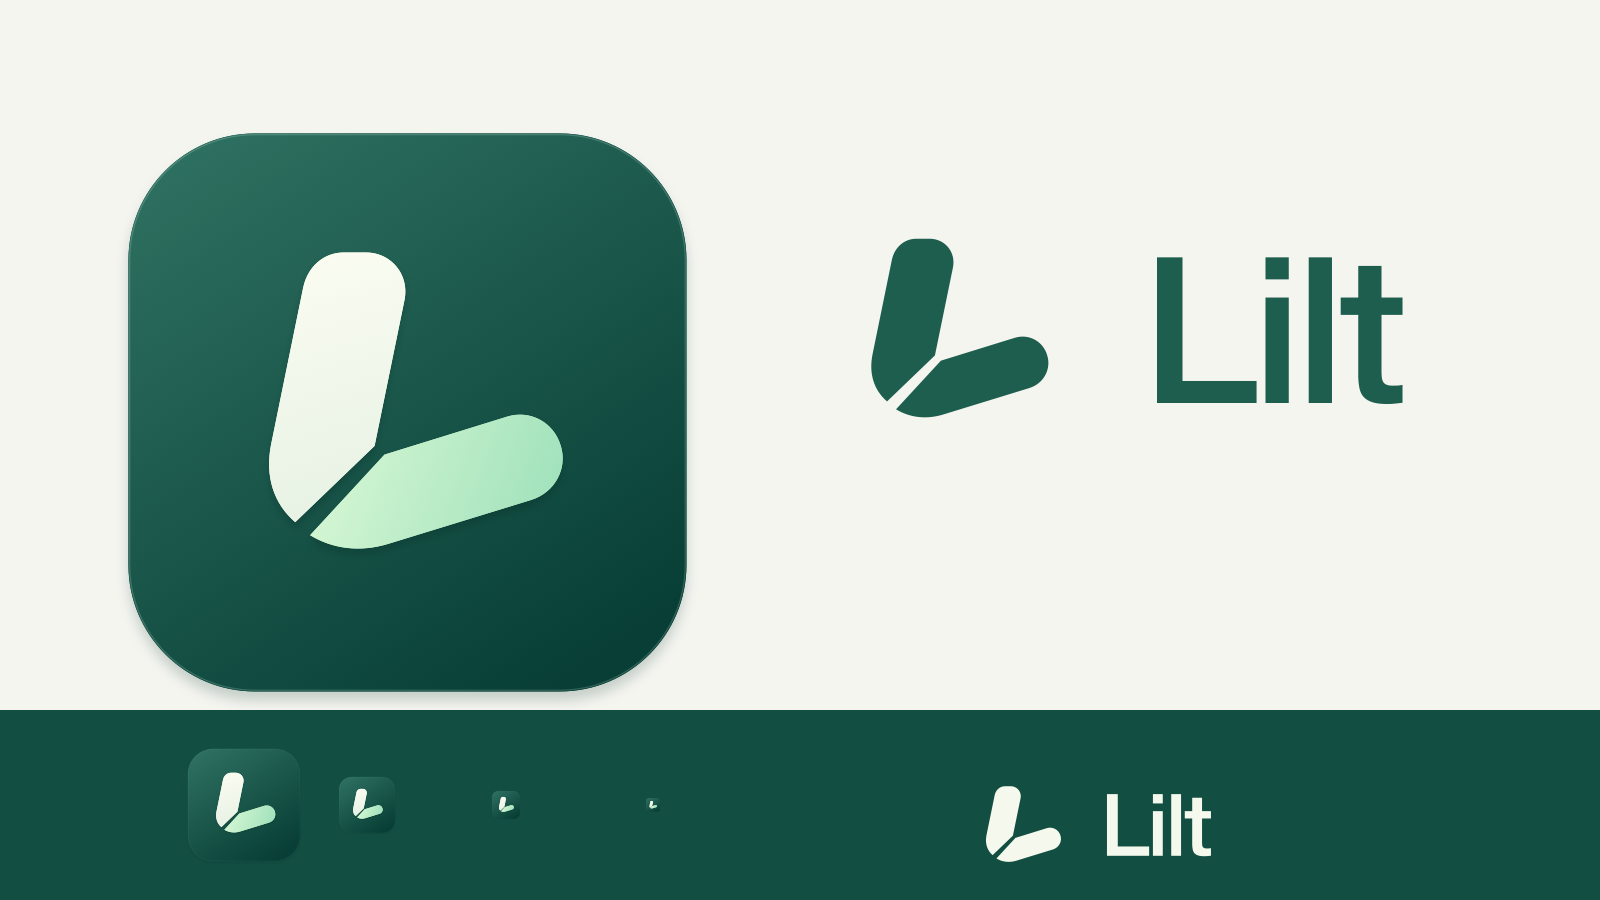
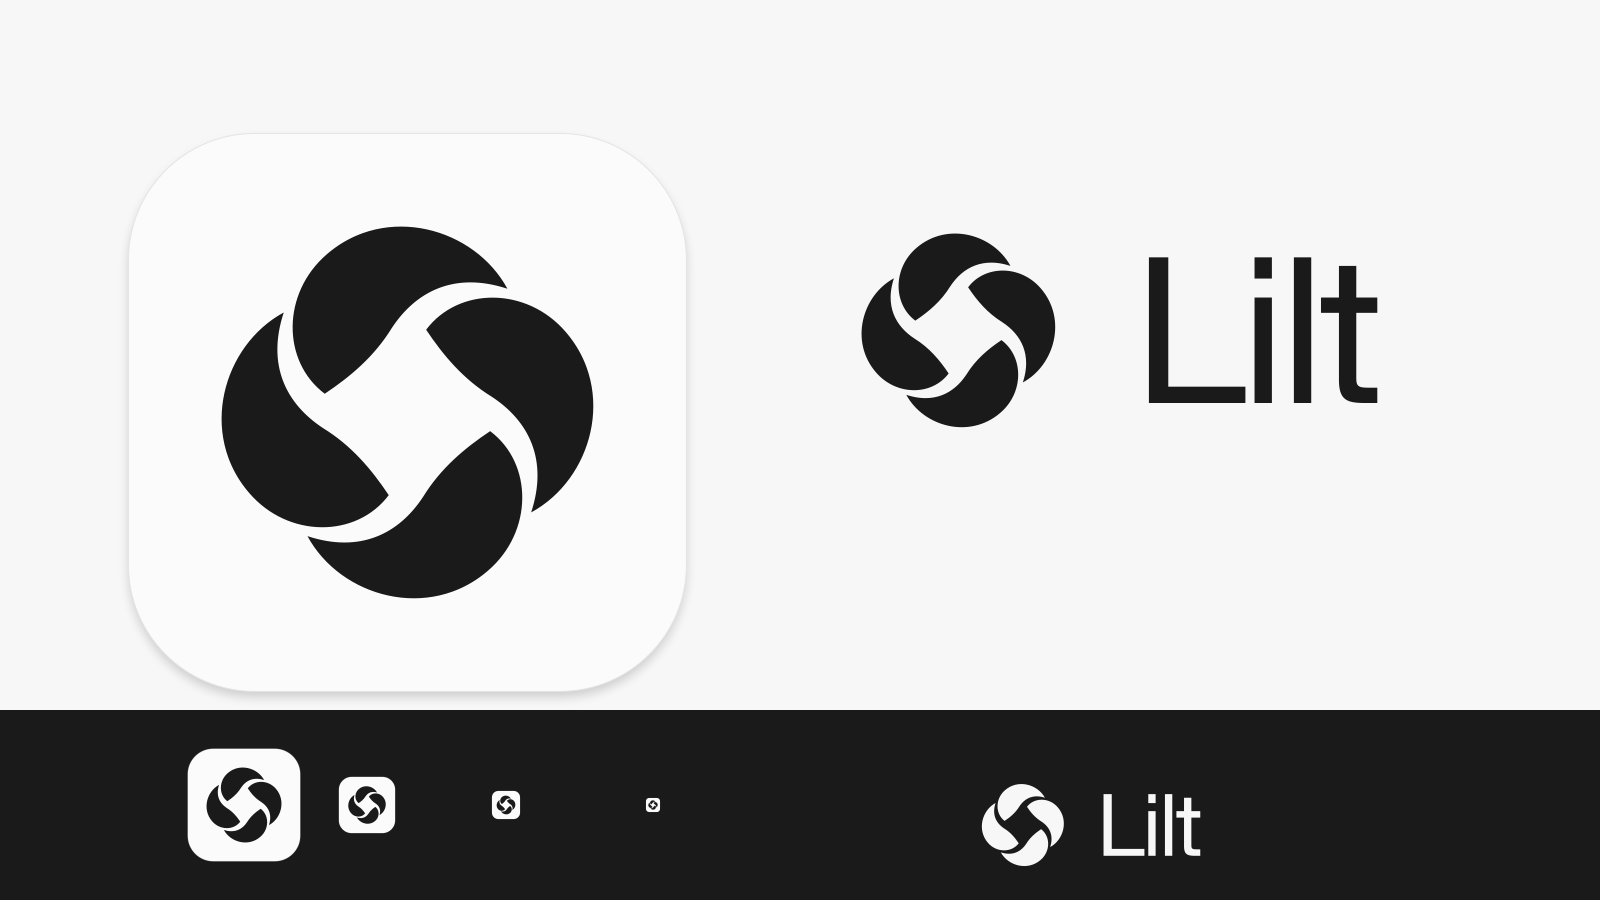
design: replace lettermark with monochrome orbit identity

diff --git a/scripts/make-icon.swift b/scripts/make-icon.swift
@@ -12,17 +12,13 @@ enum Segment {
     case move(CGFloat, CGFloat), line(CGFloat, CGFloat)
     case curve(CGFloat, CGFloat, CGFloat, CGFloat, CGFloat, CGFloat), close
 }
-let stem: [Segment] = [
-    .move(409, 254), .curve(377, 254, 351, 277, 344, 310),
-    .line(292, 564), .curve(282, 615, 296, 659, 331, 689),
-    .line(459, 566), .line(507, 332),
-    .curve(516, 290, 486, 254, 445, 254), .close
-]
-let foot: [Segment] = [
-    .move(355, 710), .curve(391, 732, 435, 738, 481, 724),
-    .line(712, 653), .curve(750, 641, 771, 602, 759, 565),
-    .curve(748, 528, 710, 507, 672, 519),
-    .line(475, 580), .close
+// A broad curved lobe repeated four times; the openings leave a quiet central aperture.
+let lobe: [Segment] = [
+    .move(-115, -5),
+    .curve(-175, -50, -175, -145, -112, -199),
+    .curve(-30, -270, 93, -236, 139, -151),
+    .curve(66, -175, 12, -148, -22, -96),
+    .curve(-46, -57, -79, -29, -115, -5), .close
 ]
 func path(_ segments: [Segment]) -> CGPath {
     let p = CGMutablePath()
@@ -40,30 +36,25 @@ func color(_ hex: UInt32) -> CGColor {
     CGColor(red: CGFloat((hex >> 16) & 255)/255, green: CGFloat((hex >> 8) & 255)/255, blue: CGFloat(hex & 255)/255, alpha: 1)
 }
 func fill(_ p: CGPath, _ c: CGColor, _ ctx: CGContext) { ctx.addPath(p); ctx.setFillColor(c); ctx.fillPath() }
-func gradient(_ p: CGPath, colors: [CGColor], from: CGPoint, to: CGPoint, _ ctx: CGContext) {
-    ctx.saveGState(); ctx.addPath(p); ctx.clip()
-    let g = CGGradient(colorsSpace: CGColorSpace(name: CGColorSpace.sRGB), colors: colors as CFArray, locations: nil)!
-    ctx.drawLinearGradient(g, start: from, end: to, options: [.drawsBeforeStartLocation, .drawsAfterEndLocation])
-    ctx.restoreGState()
+func lobes() -> [CGPath] {
+    (0..<4).map { index in
+        var transform = CGAffineTransform(translationX:512,y:512)
+            .scaledBy(x:1.16,y:1.16).rotated(by:CGFloat(index) * .pi / 2)
+            .translatedBy(x:0,y:-21)
+        return path(lobe).copy(using:&transform)!
+    }
 }
-func mark(_ ctx: CGContext, primary: CGColor, secondary: CGColor) {
-    fill(path(stem), primary, ctx); fill(path(foot), secondary, ctx)
+func mark(_ ctx: CGContext, primary: CGColor) {
+    for p in lobes() { fill(p,primary,ctx) }
 }
-func icon(_ ctx: CGContext) {
-    // Core Graphics shadows use device space; scale them explicitly for 16–1024 px exports.
+func icon(_ ctx: CGContext, dark: Bool = false) {
     let shadowScale = abs(ctx.ctm.a)
-    let tile = CGPath(roundedRect: CGRect(x: 62, y: 62, width: 900, height: 900), cornerWidth: 204, cornerHeight: 204, transform: nil)
+    let tile = CGPath(roundedRect: CGRect(x:62,y:62,width:900,height:900),cornerWidth:204,cornerHeight:204,transform:nil)
     ctx.saveGState()
-    ctx.setShadow(offset: CGSize(width: 0, height: -14 * shadowScale), blur: 20 * shadowScale, color: color(0x09281F).copy(alpha: 0.20))
-    fill(tile, color(0x123E33), ctx); ctx.restoreGState()
-    gradient(tile, colors: [color(0x245D4D), color(0x0B3028)], from: CGPoint(x:180,y:80), to: CGPoint(x:750,y:950), ctx)
-    ctx.saveGState(); ctx.addPath(tile); ctx.clip()
-    ctx.addPath(CGPath(roundedRect: CGRect(x:64,y:64,width:896,height:896), cornerWidth:202, cornerHeight:202, transform:nil))
-    ctx.setStrokeColor(color(0xE3FFEE).copy(alpha:0.19)!); ctx.setLineWidth(2); ctx.strokePath(); ctx.restoreGState()
-    ctx.saveGState(); ctx.setShadow(offset: CGSize(width:0,height:-9 * shadowScale), blur:14 * shadowScale, color: color(0x001B13).copy(alpha:0.24))
-    mark(ctx, primary: color(0xF2F8E9), secondary: color(0xB6ECC0)); ctx.restoreGState()
-    gradient(path(stem), colors: [color(0xFAFCEE),color(0xDFEEDC)], from: CGPoint(x:350,y:250), to: CGPoint(x:480,y:700), ctx)
-    gradient(path(foot), colors: [color(0xCDF6C9),color(0x8DDCAC)], from: CGPoint(x:380,y:580), to: CGPoint(x:760,y:720), ctx)
+    ctx.setShadow(offset:CGSize(width:0,height:-10 * shadowScale),blur:16 * shadowScale,color:color(0x000000).copy(alpha:0.16))
+    fill(tile,color(dark ? 0x181818 : 0xFAFAFA),ctx); ctx.restoreGState()
+    ctx.addPath(tile); ctx.setStrokeColor(color(dark ? 0x383838 : 0xDEDEDE)); ctx.setLineWidth(1.5); ctx.strokePath()
+    mark(ctx,primary:color(dark ? 0xF5F5F5 : 0x141414))
 }
 func png(width: Int, height: Int, logicalWidth: CGFloat, logicalHeight: CGFloat, to url: URL, draw: (CGContext)->Void) throws {
     let ctx = CGContext(data:nil,width:width,height:height,bitsPerComponent:8,bytesPerRow:0,space:CGColorSpace(name:CGColorSpace.sRGB)!,bitmapInfo:CGImageAlphaInfo.premultipliedLast.rawValue)!
@@ -76,16 +67,16 @@ for size in [16,32,128,256,512] {
     for scale in [1,2] {
         let pixels = size * scale
         try png(width:pixels,height:pixels,logicalWidth:1024,logicalHeight:1024,
-                to:dir.appendingPathComponent("icon_\(size)x\(size)\(scale == 2 ? "@2x" : "").png"),draw:icon)
+                to:dir.appendingPathComponent("icon_\(size)x\(size)\(scale == 2 ? "@2x" : "").png"),draw:{ icon($0) })
     }
 }
 
 // Export a black template for the menu bar. It uses the exact same silhouette as the icon.
 for scale in [1,2] {
-    try png(width:18*scale,height:18*scale,logicalWidth:560,logicalHeight:560,
+    try png(width:18*scale,height:18*scale,logicalWidth:660,logicalHeight:660,
             to:root.appendingPathComponent("LiltMenu\(scale == 2 ? "@2x" : "").png")) { ctx in
-        ctx.translateBy(x:-245,y:-220)
-        mark(ctx,primary:color(0x000000),secondary:color(0x000000))
+        ctx.translateBy(x:-182,y:-182)
+        mark(ctx,primary:color(0x000000))
     }
 }
 
@@ -112,44 +103,45 @@ if brand {
         let s = "<svg xmlns=\"http://www.w3.org/2000/svg\" viewBox=\"\(viewBox)\" role=\"img\" aria-label=\"Lilt\"><title>Lilt</title>\(content)</svg>\n"
         try s.write(to:out.appendingPathComponent(name),atomically:true,encoding:.utf8)
     }
-    let shapes = "<path d=\"\(svgPath(path(stem)))\"/><path d=\"\(svgPath(path(foot)))\"/>"
-    try svg("<g fill=\"#194D3E\">\(shapes)</g>",viewBox:"224 200 600 600",name:"lilt-mark.svg")
-    try svg("<g fill=\"#F2F8E9\">\(shapes)</g>",viewBox:"224 200 600 600",name:"lilt-mark-light.svg")
-    try png(width:1024,height:1024,logicalWidth:1024,logicalHeight:1024,to:out.appendingPathComponent("lilt-icon.png"),draw:icon)
-    try png(width:1024,height:1024,logicalWidth:600,logicalHeight:600,to:out.appendingPathComponent("lilt-mark.png")) { ctx in
-        ctx.translateBy(x:-224,y:-200); mark(ctx,primary:color(0x194D3E),secondary:color(0x194D3E))
+    let shapes = lobes().map { "<path d=\"\(svgPath($0))\"/>" }.joined()
+    try svg("<g fill=\"#141414\">\(shapes)</g>",viewBox:"162 162 700 700",name:"lilt-mark.svg")
+    try svg("<g fill=\"#F5F5F5\">\(shapes)</g>",viewBox:"162 162 700 700",name:"lilt-mark-light.svg")
+    try png(width:1024,height:1024,logicalWidth:1024,logicalHeight:1024,to:out.appendingPathComponent("lilt-icon.png"),draw:{ icon($0) })
+    try png(width:1024,height:1024,logicalWidth:1024,logicalHeight:1024,to:out.appendingPathComponent("lilt-icon-dark.png")) { icon($0,dark:true) }
+    try png(width:1024,height:1024,logicalWidth:700,logicalHeight:700,to:out.appendingPathComponent("lilt-mark.png")) { ctx in
+        ctx.translateBy(x:-162,y:-162); mark(ctx,primary:color(0x141414))
     }
     // Convert the wordmark into outlines so SVG consumers need no installed font.
-    let font = CTFontCreateWithName("HelveticaNeue-Medium" as CFString,240,nil)
+    let font = CTFontCreateWithName("HelveticaNeue" as CFString,240,nil)
     let letters = Array("Lilt".utf16)
     var glyphs = [CGGlyph](repeating:0,count:letters.count)
     CTFontGetGlyphsForCharacters(font,letters,&glyphs,letters.count)
     var advances = [CGSize](repeating:.zero,count:letters.count)
     CTFontGetAdvancesForGlyphs(font,.horizontal,glyphs,&advances,letters.count)
-    let word = CGMutablePath(); var x:CGFloat = 390
+    let word = CGMutablePath(); var x:CGFloat = 380
     for (index,glyph) in glyphs.enumerated() {
         if let p = CTFontCreatePathForGlyph(font,glyph,nil) {
             word.addPath(p,transform:CGAffineTransform(a:1,b:0,c:0,d:-1,tx:x,ty:280))
         }
         x += advances[index].width - 7
     }
-    let wordPaths = "<g transform=\"translate(-55 -25) scale(.44)\">\(shapes)</g><path d=\"\(svgPath(word))\"/>"
-    try svg("<g fill=\"#194D3E\">\(wordPaths)</g>",viewBox:"0 0 770 390",name:"lilt-logo.svg")
-    try svg("<g fill=\"#F2F8E9\">\(wordPaths)</g>",viewBox:"0 0 770 390",name:"lilt-logo-light.svg")
+    let wordPaths = "<g transform=\"translate(-20 0) scale(.38)\">\(shapes)</g><path d=\"\(svgPath(word))\"/>"
+    try svg("<g fill=\"#141414\">\(wordPaths)</g>",viewBox:"0 0 770 390",name:"lilt-logo.svg")
+    try svg("<g fill=\"#F5F5F5\">\(wordPaths)</g>",viewBox:"0 0 770 390",name:"lilt-logo-light.svg")
     func drawLogo(_ ctx:CGContext, ink:CGColor) {
-        ctx.saveGState(); ctx.translateBy(x:-55,y:-25); ctx.scaleBy(x:0.44,y:0.44)
-        mark(ctx,primary:ink,secondary:ink); ctx.restoreGState(); fill(word,ink,ctx)
+        ctx.saveGState(); ctx.translateBy(x:-20,y:0); ctx.scaleBy(x:0.38,y:0.38)
+        mark(ctx,primary:ink); ctx.restoreGState(); fill(word,ink,ctx)
     }
-    try png(width:1540,height:780,logicalWidth:770,logicalHeight:390,to:out.appendingPathComponent("lilt-logo.png")) { drawLogo($0,ink:color(0x194D3E)) }
+    try png(width:1540,height:780,logicalWidth:770,logicalHeight:390,to:out.appendingPathComponent("lilt-logo.png")) { drawLogo($0,ink:color(0x141414)) }
     try png(width:1600,height:900,logicalWidth:1600,logicalHeight:900,to:out.appendingPathComponent("brand-preview.png")) { ctx in
-        ctx.setFillColor(color(0xF2F3EC)); ctx.fill(CGRect(x:0,y:0,width:1600,height:900))
+        ctx.setFillColor(color(0xF5F5F5)); ctx.fill(CGRect(x:0,y:0,width:1600,height:900))
         ctx.saveGState(); ctx.translateBy(x:90,y:95); ctx.scaleBy(x:0.62,y:0.62); icon(ctx); ctx.restoreGState()
-        ctx.saveGState(); ctx.translateBy(x:810,y:165); ctx.scaleBy(x:0.85,y:0.85); drawLogo(ctx,ink:color(0x194D3E)); ctx.restoreGState()
-        ctx.setFillColor(color(0x123E33)); ctx.fill(CGRect(x:0,y:710,width:1600,height:190))
+        ctx.saveGState(); ctx.translateBy(x:810,y:165); ctx.scaleBy(x:0.85,y:0.85); drawLogo(ctx,ink:color(0x141414)); ctx.restoreGState()
+        ctx.setFillColor(color(0x141414)); ctx.fill(CGRect(x:0,y:710,width:1600,height:190))
         for (index,size) in [128.0,64.0,32.0,16.0].enumerated() {
             ctx.saveGState(); ctx.translateBy(x:180 + CGFloat(index)*155,y:805-size/2); ctx.scaleBy(x:size/1024,y:size/1024); icon(ctx); ctx.restoreGState()
         }
-        ctx.saveGState(); ctx.translateBy(x:960,y:755); ctx.scaleBy(x:0.36,y:0.36); drawLogo(ctx,ink:color(0xF2F8E9)); ctx.restoreGState()
+        ctx.saveGState(); ctx.translateBy(x:960,y:755); ctx.scaleBy(x:0.36,y:0.36); drawLogo(ctx,ink:color(0xF5F5F5)); ctx.restoreGState()
     }
     print("Brand assets: \(out.path)")
 }

diff --git a/assets/brand/README.md b/assets/brand/README.md
@@ -1,17 +1,18 @@
 # Lilt 品牌资产
 
-标志由两段圆润、前倾的笔画组成一个「L」。斜切留白表现接力交接，上扬的底部表现继续前进。应用图标用深松绿底色、奶白主笔画和薄荷绿接力笔画；独立 Logo 使用单色，适合浅色与深色背景。
+四枚宽阔的弧形围绕中心留白旋转，形成紧凑的「回旋」标志，表达连续、轮换与接力。采用黑、白、灰；标志本身是纯色平面图形。App Icon 默认白底黑标，另提供黑底白标版本。
 
 ## 文件
 
-- `lilt-icon.png`：1024 × 1024 App Icon，圆角外透明。
-- `lilt-mark.svg` / `lilt-mark-light.svg`：独立标志，深绿 / 奶白，透明背景。
-- `lilt-mark.png`：1024 × 1024 透明标志。
+- `lilt-icon.png`：1024 × 1024 默认 App Icon，白底黑标，圆角外透明。
+- `lilt-icon-dark.png`：1024 × 1024 黑底白标备选图标。
+- `lilt-mark.svg` / `lilt-mark-light.svg`：独立标志，黑 / 白，透明背景。
+- `lilt-mark.png`：1024 × 1024 透明黑色标志。
 - `lilt-logo.svg` / `lilt-logo-light.svg`：标志与 Lilt 字标，字形已转为路径，不依赖字体。
 - `lilt-logo.png`：1540 × 780 透明 Logo。
 - `brand-preview.png`：1600 × 900 展示图，包含浅底、深底及 128 / 64 / 32 / 16 px 图标预览。
 
-主色：松绿 `#194D3E`、奶白 `#F2F8E9`、薄荷绿 `#B6ECC0`。App Icon 的底色与笔画使用轻微渐变；单色 Logo 保留相同轮廓。保持原比例，四周至少留出标志高度的 1/8 空白。
+颜色：墨黑 `#141414`、浅白 `#FAFAFA`、反白 `#F5F5F5`、边框灰 `#DEDEDE`。保持原比例，四周至少留出标志宽度的 1/8 空白。不要单独旋转其中一瓣、添加彩色渐变或改变瓣间留白。
 
 ## 重新生成
 
@@ -22,6 +23,6 @@ swift scripts/make-icon.swift build --brand-assets
 ./scripts/build-app.sh
 ```
 
-`make-icon.swift` 是唯一绘图源：同一组贝塞尔路径生成 SVG、PNG、10 个标准 macOS iconset 文件，以及 18 pt 的菜单栏模板图。App 构建会自动生成 `build/Lilt.app/Contents/Resources/Lilt.icns`，不依赖绘图软件或第三方包。菜单栏关闭自动接力时显示 L 标志，开启后保留原有的接力箭头状态提示。
+`make-icon.swift` 是正式资产的唯一绘图源：同一组贝塞尔路径生成 SVG、PNG、10 个标准 macOS iconset 文件，以及 18 pt 的菜单栏模板图。App 构建自动生成 `build/Lilt.app/Contents/Resources/Lilt.icns`，不依赖绘图软件或第三方包。菜单栏关闭自动接力时显示回旋标志，开启后保留原有的接力箭头状态提示。
 
-此版本使用原生矢量绘制，没有使用 AI 位图生成。字标以 Helvetica Neue Medium 转曲；重新生成字标需要 macOS 随附的该字体。
+形态探索使用内置图像生成工具，正式交付重新构建为四重旋转对称的原生矢量路径。字标以 macOS 随附的 Helvetica Neue 转曲。参考与探索提示词见 [design-notes.md](design-notes.md)。

diff --git a/assets/brand/design-notes.md b/assets/brand/design-notes.md
@@ -1,0 +1,21 @@
+# 设计方向与来源
+
+用户要求：替换上一版绿色 L 字母图标；参考 OpenAI、Claude、Grok 的图标气质，以黑、白、灰为主。
+
+选择四瓣回旋：宽阔曲面构成集中轮廓，中心与瓣间留白带来节奏，适合应用图标与单色菜单栏。正式图形使用一枚贝塞尔曲线瓣旋转四次，保留瓣间开口。图标为纯色标志配白色系统圆角底板；阴影仅在底板外，随输出尺寸缩放。
+
+## 参考
+
+- [OpenAI Design Guidelines](https://openai.com/brand/)：几何秩序、曲线与单色呈现。
+- [Claude / Anthropic](https://www.anthropic.com/)：紧凑的放射形标志与有机轮廓。
+- [Grok Brand Guidelines](https://x.ai/legal/brand-guidelines)：黑白对比、强轮廓与负形。
+
+以上是视觉研究来源。交付文件使用为 Lilt 新建的路径，不包含这些品牌的图形资产。
+
+## 图像探索
+
+使用内置 image_gen 生成三方向探索图，生产资产以左侧的四瓣回旋方向重新绘制。探索图不作为应用资源；正式源文件是 `scripts/make-icon.swift`。
+
+提示词：
+
+> Use case: logo-brand. Create a refined monochrome logo exploration sheet for Lilt, a personal AI developer utility for continuity and account handoff. Three distinct original abstract symbol concepts arranged left to right on a clean white landscape canvas, no text whatsoever, equal visual size, generous whitespace. Aim for the restraint and unforgettable silhouette quality of OpenAI, Claude and Grok brand marks, but do not reproduce any existing logo. Solid black vector-like shapes only, sharp impeccably smooth edges. Each mark must be one cohesive compact shape, readable at 24px. Concept left: four broad, gently curved interlocking arms circulating around a small diamond-shaped negative-space center, balanced square rotational symmetry, subtly folded aperture with four generous openings, elegant and soft yet technical. Concept center: two opposing sweeping organic crescents seamlessly suggesting a continuous relay and a quiet orbital motion, compact circular silhouette with strong negative space. Concept right: a minimal six-lobed rhythmic radial glyph with broad organic leaves and a small open central hexagon, calm and sculptural. Flat 2D black ink only. No letter L, no letters, no wordmarks, no color, no gradients, no 3D, no shadows, no border, no mockup, no tile, no generic sparkle or atom or circuitry. Premium professional identity design, controlled geometry, uncommon silhouette.
